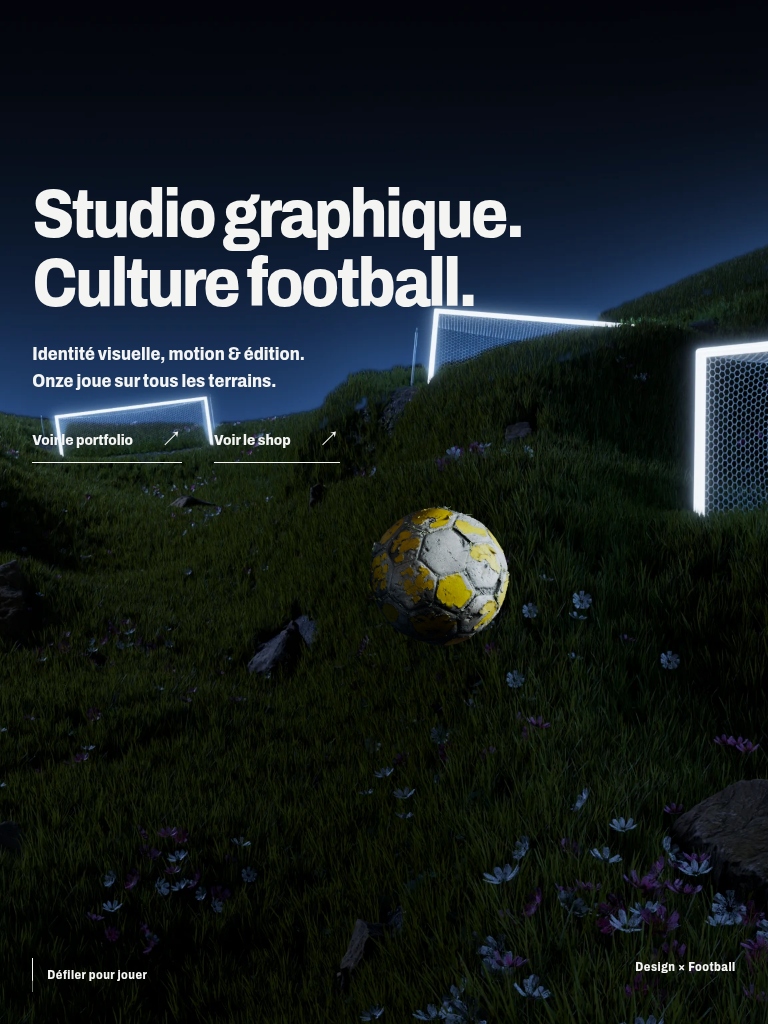
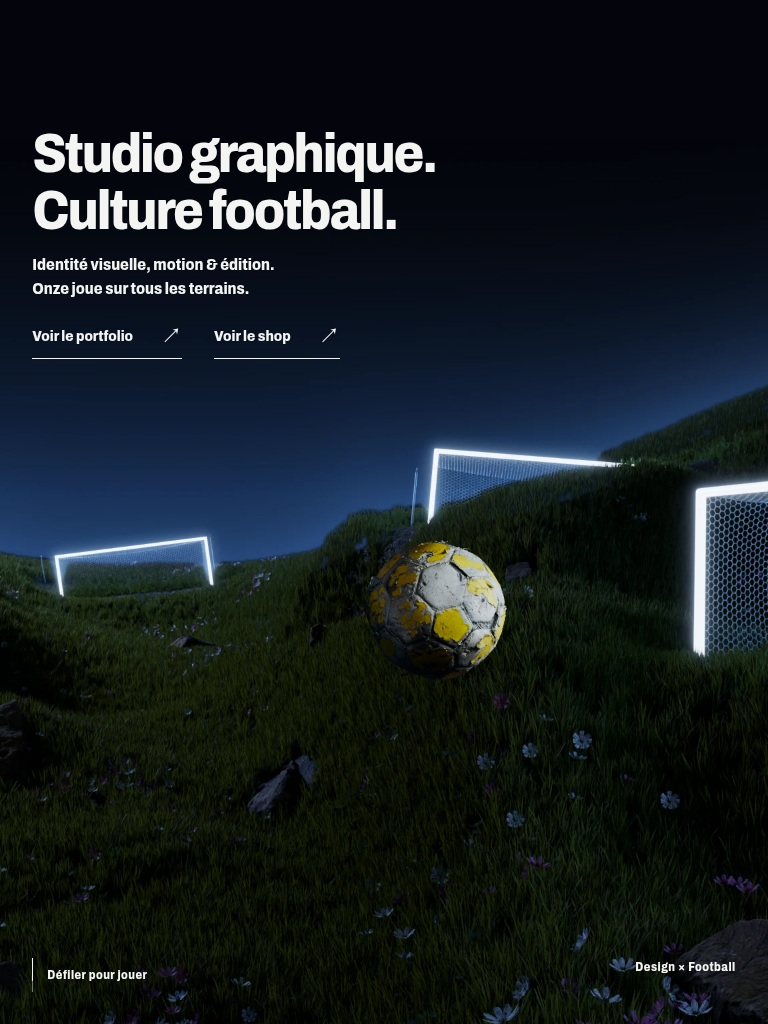
Fix hero copy overlap, lucarne contact and clean shirt placeholders

diff --git a/index.html b/index.html
@@ -1,1 +1,1 @@
-<!doctype html><html lang="fr"><head><meta charset="utf-8"><meta name="viewport" content="width=device-width, initial-scale=1"><title>Studio graphique & culture football · Onze</title><meta name="description" content="Onze, studio graphique et culture football. Identité visuelle, motion design et édition. Portfolio et shop."><meta name="theme-color" content="#101610"><link rel="icon" href="/assets/favicon.svg" type="image/svg+xml"><link rel="preload" href="/assets/archivo.ttf" as="font" type="font/ttf" crossorigin><link rel="stylesheet" href="/assets/style.css"><script src="/assets/app.js" defer></script></head><body class="home"><a class="skip" href="#main">Aller au contenu</a><header class="nav"><a class="wordmark" href="/" aria-label="Onze, accueil">onze.</a><nav class="nav-links" aria-label="Navigation principale"><a href="/" aria-current="page">Accueil</a><a href="/portfolio/" >Portfolio</a><a href="/shop/" >Shop</a></nav><button class="nav-contact" data-contact>Parlons de votre projet ↗</button></header><main id="main"><section class="hero-track" aria-labelledby="hero-title" data-moment><div class="hero-stage"><img class="landscape" src="/assets/terrain.webp" alt="" width="2304" height="1536" fetchpriority="high"><div class="hero-copy"><h1 id="hero-title">Studio graphique.<span>Culture football.</span></h1><p>Identité visuelle, motion &amp; édition.<br>Onze joue sur tous les terrains.</p><div class="hero-links"><a class="text-link" href="/portfolio/">Voir le portfolio <span aria-hidden="true">↗</span></a><a class="text-link" href="/shop/">Voir le shop <span aria-hidden="true">↗</span></a></div></div><div class="ground-shadow" aria-hidden="true"></div><img class="ball" src="/assets/ball.webp" alt="Ballon de football patiné, animé vers la lucarne au défilement" width="900" height="900" fetchpriority="high"><img class="goal-net" src="/assets/goal-net.webp" alt="" width="2304" height="1536"><div class="scene-end"><h2>Le terrain<br>des idées.</h2><a class="text-link" href="/portfolio/">Voir les projets <span aria-hidden="true">↗</span></a></div><div class="hero-baseline"><div class="scroll-cue"><span class="scroll-line"><i></i></span><span class="scroll-label">Défiler pour jouer</span></div><span>Design × Football</span></div></div></section><section class="home-links"><div class="wrap"><h2>Sur le terrain.</h2><div class="entry-grid"><a class="entry" href="/portfolio/"><img src="/assets/project-identity.svg" alt="" loading="lazy"><strong>Le portfolio</strong><em aria-hidden="true">↗</em></a><a class="entry" href="/shop/"><img src="/assets/tee-blanc.svg" alt="" loading="lazy"><strong>Le shop</strong><em aria-hidden="true">↗</em></a></div></div></section></main><footer class="footer"><div class="footer-top"><p class="footer-title">Un projet en tête ?<br>On fait équipe.</p><button class="contact-link" data-contact>Parlons de votre projet ↗</button></div><div class="footer-bottom"><a class="wordmark" href="/" aria-label="Onze, accueil">onze.</a><p>Studio graphique · Culture football</p><nav aria-label="Navigation de pied de page"><a href="/portfolio/">Portfolio</a><a href="/shop/">Shop</a></nav></div></footer><dialog class="contact-dialog" aria-labelledby="contact-title"><button class="close-dialog" aria-label="Fermer" data-close>×</button><h2 id="contact-title">Faisons équipe.</h2><p>Ce site est une maquette. Les coordonnées du studio seront ajoutées ici avant la mise en ligne.</p><a class="text-link" href="/portfolio/">Voir le portfolio <span aria-hidden="true">↗</span></a></dialog></body></html>
+<!doctype html><html lang="fr"><head><meta charset="utf-8"><meta name="viewport" content="width=device-width, initial-scale=1"><title>Studio graphique & culture football · Onze</title><meta name="description" content="Onze, studio graphique et culture football. Identité visuelle, motion design et édition. Portfolio et shop."><meta name="theme-color" content="#101610"><link rel="icon" href="/assets/favicon.svg" type="image/svg+xml"><link rel="preload" href="/assets/archivo.ttf" as="font" type="font/ttf" crossorigin><link rel="stylesheet" href="/assets/style.css"><script src="/assets/app.js" defer></script></head><body class="home"><a class="skip" href="#main">Aller au contenu</a><header class="nav"><a class="wordmark" href="/" aria-label="Onze, accueil">onze.</a><nav class="nav-links" aria-label="Navigation principale"><a href="/" aria-current="page">Accueil</a><a href="/portfolio/" >Portfolio</a><a href="/shop/" >Shop</a></nav><button class="nav-contact" data-contact>Parlons de votre projet ↗</button></header><main id="main"><section class="hero-track" aria-labelledby="hero-title" data-moment><div class="hero-stage"><img class="landscape" src="/assets/terrain.webp" alt="" width="2304" height="1536" fetchpriority="high"><div class="hero-copy"><h1 id="hero-title">Studio graphique.<span>Culture football.</span></h1><p>Identité visuelle, motion &amp; édition.<br>Onze joue sur tous les terrains.</p><div class="hero-links"><a class="text-link" href="/portfolio/">Voir le portfolio <span aria-hidden="true">↗</span></a><a class="text-link" href="/shop/">Voir le shop <span aria-hidden="true">↗</span></a></div></div><img class="net-impact" src="/assets/net-impact.webp" alt="" width="128" height="128"><img class="net-impact" src="/assets/net-impact.webp" alt="" width="128" height="128"><img class="net-contact" src="/assets/net-contact.webp" alt="" width="128" height="128"><img class="net-impact" src="/assets/net-impact.webp" alt="" width="128" height="128"><div class="ground-shadow" aria-hidden="true"></div><img class="ball" src="/assets/ball.webp" alt="Ballon de football patiné, animé vers la lucarne au défilement" width="900" height="900" fetchpriority="high"><img class="goal-net" src="/assets/goal-net.webp" alt="" width="2304" height="1536"><div class="hero-baseline"><div class="scroll-cue"><span class="scroll-line"><i></i></span><span class="scroll-label">Défiler pour jouer</span></div><span>Design × Football</span></div></div></section><section class="home-links"><div class="wrap"><h2>Sur le terrain.</h2><div class="entry-grid"><a class="entry" href="/portfolio/"><img src="/assets/project-identity.svg" alt="" loading="lazy"><strong>Le portfolio</strong><em aria-hidden="true">↗</em></a><a class="entry" href="/shop/"><img src="/assets/tee-blanc.svg" alt="" loading="lazy"><strong>Le shop</strong><em aria-hidden="true">↗</em></a></div></div></section></main><footer class="footer"><div class="footer-top"><p class="footer-title">Un projet en tête ?<br>On fait équipe.</p><button class="contact-link" data-contact>Parlons de votre projet ↗</button></div><div class="footer-bottom"><a class="wordmark" href="/" aria-label="Onze, accueil">onze.</a><p>Studio graphique · Culture football</p><nav aria-label="Navigation de pied de page"><a href="/portfolio/">Portfolio</a><a href="/shop/">Shop</a></nav></div></footer><dialog class="contact-dialog" aria-labelledby="contact-title"><button class="close-dialog" aria-label="Fermer" data-close>×</button><h2 id="contact-title">Faisons équipe.</h2><p>Ce site est une maquette. Les coordonnées du studio seront ajoutées ici avant la mise en ligne.</p><a class="text-link" href="/portfolio/">Voir le portfolio <span aria-hidden="true">↗</span></a></dialog></body></html>

diff --git a/assets/app.js b/assets/app.js
@@ -20,7 +20,8 @@
   const copy = document.querySelector('.hero-copy');
   const net = document.querySelector('.goal-net');
   const shadow = document.querySelector('.ground-shadow');
-  const ending = document.querySelector('.scene-end');
+  const impact = document.querySelector('.net-impact');
+  const contact = document.querySelector('.net-contact');
   const scrollLabel = document.querySelector('.scroll-label');
   const progressLine = document.querySelector('.scroll-line i');
   const reduce = matchMedia('(prefers-reduced-motion: reduce)');
@@ -33,7 +34,7 @@
     height = stage.clientHeight;
     ratio = Math.max(width / 3072, height / 2048);
     offsetX = (width - 3072 * ratio) * (width <= 640 ? .77 : .5);
-    offsetY = (height - 2048 * ratio) * .5 + (width <= 640 ? 150 : 0);
+    offsetY = (height - 2048 * ratio) * .5 + (width <= 640 ? 150 : 140);
     distance = Math.max(1, track.offsetHeight - height);
     paint();
   }
@@ -45,10 +46,11 @@
     const perspective = t / (1 + 2.4 * (1 - t));
     const startX = width * (width <= 640 ? .34 : .44);
     const startY = height * .75;
-    const targetX = offsetX + 2220 * ratio;
-    const targetY = offsetY + 750 * ratio;
+    const targetX = offsetX + 2199 * ratio;
+    const targetY = offsetY + 733 * ratio;
     const initial = Math.min(width <= 640 ? width * .62 : width * .28, 400);
-    const final = 38 * ratio;
+    // 0.09 × front post height (1030-706), compensate transparent sprite padding.
+    const final = ((1030 - 706) * .09 / (759 / 900)) * ratio;
     // Keep the approach inside the left post before crossing the goal plane.
     const x = mix(startX, targetX, perspective);
     const y = mix(startY, targetY, perspective) - Math.sin(t * Math.PI) * height * .09;
@@ -58,13 +60,17 @@
     ball.style.opacity = '1';
     shadow.style.transform = `translate3d(${x - 140}px,${mix(startY + initial * .42,height * .62,perspective) - 20}px,0) scale(${size / initial},${mix(1,.2,t)})`;
     shadow.style.opacity = String((1-t)*.8);
-    copy.style.opacity = String(1 - clamp(progress / .38));
-    copy.style.pointerEvents = progress > .36 ? 'none' : '';
-    copy.inert = progress > .36;
-    const endOpacity = reduce.matches ? 0 : clamp((progress - .78) / .15);
-    ending.style.opacity = String(endOpacity);
-    ending.inert = endOpacity < .1;
-    net.style.opacity = progress >= .88 ? '1' : '0';
+    // A single headline and the same two links remain, no overlapping end panel.
+    copy.style.opacity = '1';
+    copy.inert = false;
+    const hit = clamp((progress - .88) / .04);
+    impact.style.width = impact.style.height = `${128 * ratio}px`;
+    impact.style.transform = `translate3d(${targetX - 64 * ratio}px,${targetY - 64 * ratio}px,0)`;
+    impact.style.opacity = String(hit);
+    net.style.opacity = '0';
+    contact.style.width = contact.style.height = impact.style.width;
+    contact.style.transform = impact.style.transform;
+    contact.style.opacity = String(hit);
     progressLine.style.transform = `scaleY(${mix(1,2.8,progress)})`;
     scrollLabel.textContent = progress >= .93 ? 'À vous de jouer' : reduce.matches ? 'Studio Onze' : 'Défiler pour jouer';
   }

diff --git a/assets/style.css b/assets/style.css
@@ -8,3 +8,15 @@
 @media(max-width:640px){:root{--gut:24px}.nav{height:88px;gap:15px}.wordmark{font-size:34px}.nav-links{gap:19px}.nav-links a{font-size:13px}.landscape,.goal-net{object-position:77% 50%}.hero-copy{top:148px}.hero-copy h1{font-size:clamp(42px,10.7vw,64px);line-height:1.04}.hero-copy p{font-size:15px;max-width:280px;margin:18px 0}.hero-links{gap:24px}.text-link{font-size:14px;gap:24px}.hero-baseline{bottom:26px;font-size:11px}.hero-baseline>span:last-child{display:none}.scene-end{bottom:130px;right:24px}.scene-end h2{font-size:42px}.home-links{padding:65px 0}.home-links h2{font-size:42px}.entry-grid{grid-template-columns:1fr;gap:20px}.entry{height:380px}.entry strong{font-size:42px}.page-intro{grid-template-columns:1fr;padding:50px 0 34px;gap:26px}.page-intro h1{font-size:60px}.page-intro p{font-size:16px;max-width:330px}.notice{font-size:12px;gap:15px;align-items:center}.notice span:last-child{text-align:right}.grid{grid-template-columns:1fr;gap:24px;padding:26px 0 65px}.project-label{padding:19px 20px}.project-label strong{font-size:22px}.project img{aspect-ratio:1/1.08}.footer{padding-top:48px}.footer-top{flex-direction:column;gap:25px}.footer-title{font-size:42px}.contact-link{font-size:18px}.footer-bottom{flex-wrap:wrap;align-items:center;gap:15px}.footer-bottom .wordmark{font-size:42px}.footer-bottom p{order:3;width:100%}.footer-bottom nav{gap:20px}.shop-feature{grid-template-columns:1fr;margin-top:26px}.locker-art{min-height:330px}.feature-copy{padding:30px}.feature-copy h2{font-size:42px}.detail-head{padding:24px 0 25px;font-size:12px}.detail-hero{grid-template-columns:1fr;gap:24px;padding-bottom:60px}.detail-info{position:static;padding-top:5px}.detail-info h1{font-size:52px}.detail-info dl{margin-top:30px}.contact-dialog{padding:32px}.contact-dialog h2{font-size:38px}.vestiaire-heading{padding-top:45px}.vestiaire-heading h1{font-size:56px}.vestiaire .locker-art{min-height:420px;padding:35px 12%}.next-project{padding:25px 0 55px}.next-project a{font-size:32px}}
 @media(max-width:640px){.hero-stage{background:#04050c}.landscape,.goal-net{top:150px}.hero-copy p{max-width:285px}.hero-copy{top:138px}}
 @media(prefers-reduced-motion:reduce){.hero-track{height:100svh}.hero-stage{position:relative}.hero-copy{animation:none}.ball,.ground-shadow{will-change:auto}.scene-end{display:none}.entry img,.project img,.project,.text-link,.variant,.nav-links a::after{transition:none}}
+
+/* Review pass: copy lives wholly above the neon geometry. */
+.hero-stage{background:#04050c}
+.landscape,.goal-net{top:140px}
+.hero-copy{top:130px;animation:none}
+.hero-copy h1{font-size:clamp(48px,4.7vw,72px);line-height:1.02}
+.hero-copy p{font-size:16px;margin:14px 0}
+.net-impact{position:absolute;left:0;top:0;max-width:none;z-index:4;opacity:0;pointer-events:none}
+@media(max-width:900px) and (min-width:641px){.hero-copy{top:125px}.hero-copy h1{font-size:56px}}
+@media(max-width:640px){.landscape,.goal-net{top:150px}.hero-copy{top:125px}.hero-copy h1{font-size:clamp(40px,10.7vw,64px)}.hero-copy p{font-size:15px}}
+
+.net-contact{position:absolute;left:0;top:0;max-width:none;z-index:7;opacity:0;pointer-events:none}

diff --git a/scripts/build.py b/scripts/build.py
@@ -8,7 +8,7 @@ def footer():
 def page(path,title,content,active,home=False):
  out=R/path;out.parent.mkdir(parents=True,exist_ok=True)
  out.write_text(f'''<!doctype html><html lang="fr"><head><meta charset="utf-8"><meta name="viewport" content="width=device-width, initial-scale=1"><title>{title} · Onze</title><meta name="description" content="Onze, studio graphique et culture football. Identité visuelle, motion design et édition. Portfolio et shop."><meta name="theme-color" content="#101610"><link rel="icon" href="/assets/favicon.svg" type="image/svg+xml"><link rel="preload" href="/assets/archivo.ttf" as="font" type="font/ttf" crossorigin><link rel="stylesheet" href="/assets/style.css"><script src="/assets/app.js" defer></script></head><body{' class="home"' if home else ''}>{header(active)}{content}{footer()}</body></html>''')
-hero='''<main id="main"><section class="hero-track" aria-labelledby="hero-title" data-moment><div class="hero-stage"><img class="landscape" src="/assets/terrain.webp" alt="" width="2304" height="1536" fetchpriority="high"><div class="hero-copy"><h1 id="hero-title">Studio graphique.<span>Culture football.</span></h1><p>Identité visuelle, motion &amp; édition.<br>Onze joue sur tous les terrains.</p><div class="hero-links"><a class="text-link" href="/portfolio/">Voir le portfolio <span aria-hidden="true">↗</span></a><a class="text-link" href="/shop/">Voir le shop <span aria-hidden="true">↗</span></a></div></div><div class="ground-shadow" aria-hidden="true"></div><img class="ball" src="/assets/ball.webp" alt="Ballon de football patiné, animé vers la lucarne au défilement" width="900" height="900" fetchpriority="high"><img class="goal-net" src="/assets/goal-net.webp" alt="" width="2304" height="1536"><div class="scene-end"><h2>Le terrain<br>des idées.</h2><a class="text-link" href="/portfolio/">Voir les projets <span aria-hidden="true">↗</span></a></div><div class="hero-baseline"><div class="scroll-cue"><span class="scroll-line"><i></i></span><span class="scroll-label">Défiler pour jouer</span></div><span>Design × Football</span></div></div></section><section class="home-links"><div class="wrap"><h2>Sur le terrain.</h2><div class="entry-grid"><a class="entry" href="/portfolio/"><img src="/assets/project-identity.svg" alt="" loading="lazy"><strong>Le portfolio</strong><em aria-hidden="true">↗</em></a><a class="entry" href="/shop/"><img src="/assets/tee-blanc.svg" alt="" loading="lazy"><strong>Le shop</strong><em aria-hidden="true">↗</em></a></div></div></section></main>'''
+hero='''<main id="main"><section class="hero-track" aria-labelledby="hero-title" data-moment><div class="hero-stage"><img class="landscape" src="/assets/terrain.webp" alt="" width="2304" height="1536" fetchpriority="high"><div class="hero-copy"><h1 id="hero-title">Studio graphique.<span>Culture football.</span></h1><p>Identité visuelle, motion &amp; édition.<br>Onze joue sur tous les terrains.</p><div class="hero-links"><a class="text-link" href="/portfolio/">Voir le portfolio <span aria-hidden="true">↗</span></a><a class="text-link" href="/shop/">Voir le shop <span aria-hidden="true">↗</span></a></div></div><img class="net-impact" src="/assets/net-impact.webp" alt="" width="128" height="128"><img class="net-impact" src="/assets/net-impact.webp" alt="" width="128" height="128"><img class="net-contact" src="/assets/net-contact.webp" alt="" width="128" height="128"><img class="net-impact" src="/assets/net-impact.webp" alt="" width="128" height="128"><div class="ground-shadow" aria-hidden="true"></div><img class="ball" src="/assets/ball.webp" alt="Ballon de football patiné, animé vers la lucarne au défilement" width="900" height="900" fetchpriority="high"><img class="goal-net" src="/assets/goal-net.webp" alt="" width="2304" height="1536"><div class="hero-baseline"><div class="scroll-cue"><span class="scroll-line"><i></i></span><span class="scroll-label">Défiler pour jouer</span></div><span>Design × Football</span></div></div></section><section class="home-links"><div class="wrap"><h2>Sur le terrain.</h2><div class="entry-grid"><a class="entry" href="/portfolio/"><img src="/assets/project-identity.svg" alt="" loading="lazy"><strong>Le portfolio</strong><em aria-hidden="true">↗</em></a><a class="entry" href="/shop/"><img src="/assets/tee-blanc.svg" alt="" loading="lazy"><strong>Le shop</strong><em aria-hidden="true">↗</em></a></div></div></section></main>'''
 page('index.html','Studio graphique & culture football',hero,'home',True)
 projects=[('identite','Identité visuelle','Un club, une identité.','project-identity.svg','Identité'),('motion','Motion design','Le jeu en mouvement.','project-motion.svg','Motion'),('edition','Édition','Le football sur papier.','project-edition.svg','Édition'),('textile','Design textile','Le graphisme se porte.','project-shirt.svg','Textile')]
 cards=''.join(f'''<a class="project" href="/portfolio/{slug}/" aria-label="Ouvrir la maquette {name}"><img src="/assets/{img}" alt="Étude graphique de démonstration {name}" width="1000" height="1100" loading="lazy"><div class="project-label"><div><strong>{name}</strong><small>Étude {i:02d} · Maquette</small></div><span class="arrow" aria-hidden="true">↗</span></div></a>''' for i,(slug,name,desc,img,cat) in enumerate(projects,1))

diff --git a/scripts/review-fixes.py b/scripts/review-fixes.py
@@ -1,0 +1,33 @@
+from pathlib import Path
+import re, math
+from PIL import Image,ImageDraw,ImageFilter
+r=Path('/files/onze-v2')
+# One semantic headline and exactly the two destinations throughout the shot.
+p=r/'scripts/build.py';s=p.read_text();s=re.sub(r'<div class="scene-end">.*?</div>', '', s);s=s.replace('<div class="ground-shadow"','<img class="net-contact" src="/assets/net-contact.webp" alt="" width="128" height="128"><img class="net-impact" src="/assets/net-impact.webp" alt="" width="128" height="128"><div class="ground-shadow"');p.write_text(s)
+# Correct both generated assets and their source, so regeneration is safe.
+p=r/'scripts/prepare-graphics.py';s=p.read_text();s=s.replace('<ellipse cx="500" cy="985" rx="270" ry="25" fill="#c8cabe"/>','').replace('<path d="M405 236q95 75 190 0" fill="none" stroke="#9a9e91" stroke-width="8"/>','');p.write_text(s)
+for p in (r/'assets').glob('tee-*.svg'):
+ s=p.read_text();s=re.sub(r'<ellipse[^>]*/>','',s);s=re.sub(r'<path d="M405 236[^>]*/>','',s);p.write_text(s)
+# Localized warped photographic net plus diffuse contact shadow.
+im=Image.open('/files/sky_v1_01a1c871-f23c-76cb-a643-0adaf84eec45.png').convert('RGB')
+cx,cy,n=2199,733,128
+patch=Image.new('RGBA',(n,n));pix=patch.load()
+for y in range(n):
+ for x in range(n):
+  dx=x-n/2;dy=y-n/2;rr=math.hypot(dx,dy)
+  pull=math.exp(-(rr/31)**2)
+  sx=int(cx+dx-110*pull);sy=int(cy+dy-10*pull)
+  rgb=im.getpixel((sx,sy));shadow=.18*math.exp(-(((dx-5)/18)**2+((dy-5)/15)**2))
+  alpha=int(255*max(0,min(1,(61-rr)/12)))
+  pix[x,y]=tuple(int(c*(1-shadow)) for c in rgb)+(alpha,)
+patch.save(r/'assets/net-impact.webp',lossless=True)
+
+# Fine warped mesh threads pass in front of the impact point, the photo stays behind.
+from PIL import ImageChops
+lum=patch.convert('L'); detail=ImageChops.subtract(lum,lum.filter(ImageFilter.GaussianBlur(1.4)))
+threads=patch.copy(); alpha=Image.new('L',(n,n));ap=alpha.load();dp=detail.load()
+for y in range(n):
+ for x in range(n):
+  rr=math.hypot(x-n/2,y-n/2)
+  ap[x,y]=int(min(120,max(0,(dp[x,y]-5)*12))*max(0,min(1,(29-rr)/12)))
+threads.putalpha(alpha);threads.save(r/'assets/net-contact.webp',lossless=True)

diff --git a/scripts/prepare-graphics.py b/scripts/prepare-graphics.py
@@ -16,4 +16,4 @@ svg('project-motion.svg','<g fill="none" stroke="#eef0df" stroke-width="24"><ell
 svg('project-edition.svg','<g fill="#18211b"><text x="70" y="190" font-family="serif" font-size="150" font-style="italic">Le jeu</text><text x="65" y="365" font-family="sans-serif" font-size="150" font-weight="800">SE JOUE</text><text x="70" y="530" font-family="serif" font-size="150" font-style="italic">aussi</text><text x="65" y="705" font-family="sans-serif" font-size="150" font-weight="800">AILLEURS.</text></g><path d="M80 800h840M80 830h840M80 860h840M80 890h840M80 920h840M80 950h840" stroke="#2449e8" stroke-width="12"/>')
 svg('project-shirt.svg','<path d="M300 260 160 330l-95 205 170 80 65-100v400h400V515l65 100 170-80-95-205-140-70q-200 125-400 0" fill="#f2f1e9"/><text x="500" y="660" text-anchor="middle" font-size="175" font-family="sans-serif" font-weight="800" fill="#2449e8">11</text>', '#2449e8')
 for color,fill,ink in [('blanc','#f3f1e7','#2449e8'),('noir','#202920','#f2f1e9')]:
- svg('tee-'+color+'.svg',f'<ellipse cx="500" cy="985" rx="270" ry="25" fill="#c8cabe"/><path d="M335 215 180 300 95 490 260 565 315 455v470h370V455l55 110 165-75-85-190-155-85q-165 110-330 0" fill="{fill}" stroke="#acb0a4" stroke-width="3"/><path d="M405 236q95 75 190 0" fill="none" stroke="#9a9e91" stroke-width="8"/><text x="500" y="565" text-anchor="middle" font-size="115" font-family="sans-serif" font-weight="800" fill="{ink}">onze.</text><text x="500" y="600" text-anchor="middle" font-size="17" letter-spacing="5" font-family="sans-serif" fill="{ink}">CULTURE FOOTBALL</text>')
+ svg('tee-'+color+'.svg',f'<path d="M335 215 180 300 95 490 260 565 315 455v470h370V455l55 110 165-75-85-190-155-85q-165 110-330 0" fill="{fill}" stroke="#acb0a4" stroke-width="3"/><text x="500" y="565" text-anchor="middle" font-size="115" font-family="sans-serif" font-weight="800" fill="{ink}">onze.</text><text x="500" y="600" text-anchor="middle" font-size="17" letter-spacing="5" font-family="sans-serif" fill="{ink}">CULTURE FOOTBALL</text>')

diff --git a/REVIEW.md b/REVIEW.md
@@ -7,3 +7,6 @@ Playwright desktop 1440x900, mobile 390x844, tablet 768x1024. Home screenshots i
 Impeccable mechanical detector remaining warnings are intentional full-bleed scene, home-links wrapper whose inner wrap supplies gutters, and invisible net overlay until ball reaches net. No near-opaque image wash.
 ## Known unfinished areas
 All project imagery, product mockups and copy are structural demonstration material, explicitly labeled. No actual sales, payment, stock, prices, or public contact address. Vestiaire is a fixed placeholder, not restored locker 3D. Ball is a rotating sprite rather than true rolling 3D; final position may need user visual adjustment on their device. User should validate overall direction before filling real projects/products.
+
+## Review correction pass
+Moved desktop landscape down 140px and reduced/repositioned headline; mobile copy remains above shifted landscape. Removed end headline panel completely: one persistent headline, two hero destinations. Removed entrance animation so it cannot override scroll opacity. Arrival diameter computed from 9% of actual front post height, compensating transparent sprite bounds (759/900). Arrival centered at source pixel 2199,733 inside inner lucarne. Added locally warped photographic net patch, soft contact darkening, and sparse foreground warped threads; remains a composited approximation, not physics. Cleaned both tee SVGs and generation source, no secondary collar seam or oval shadow. Re-shot desktop/mobile/tablet states and pages. Automated interaction/overflow/error checks pass.
